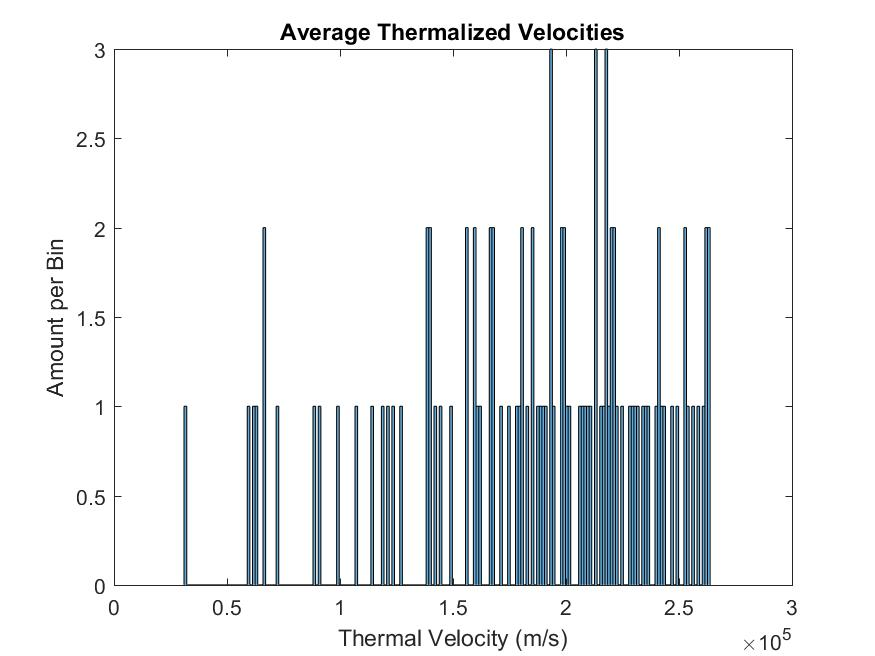
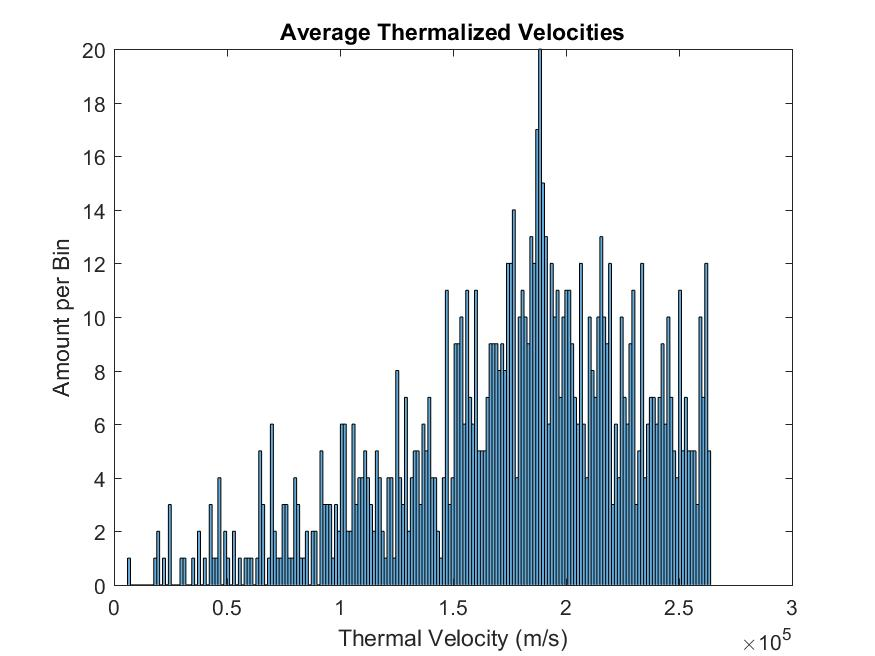
played with Q2, more commecnts

diff --git a/Assignment1/electronModelingQ2.m b/Assignment1/electronModelingQ2.m
@@ -8,8 +8,8 @@ global Vx Vy x y xp yp xi yi Vxi Vyi Collisions
 global numElect MarkerSize
 global Mass T SavePics
 
-numElect = 100;
-SavePics = 1;
+numElect = 1000;
+SavePics = 1;               %used at the end to save graphs on a 1, and not on a 0
 
 len = 200e-9;
 wid = 100e-9;
@@ -28,19 +28,19 @@ Prob = 1 - exp(-dt/.2e-12);         %probbility to interact with the backgorund
 %L = log(1 - Prob);                 %mean free path?
 %Lambda = L/diffL
 
-Limits = [0 len 0 wid];
+Limits = [0 len 0 wid];             %the drawing limits of the material simulated
 MarkerSize = 1;
 
 for i = 1:numElect                  %initialize the position of each electron
-    x(i) = rand()*len;           %inside the material. 
+    x(i) = rand()*len;              %inside the material. 
     y(i) = rand()*wid;
 end
 
 xi = x;
 yi = y;
 
-avgDistX(1:numElect) = x.*x(1:numElect);
-avgDistY(1:numElect) = y.*y(1:numElect);
+avgDistX(1:numElect) = x.*x(1:numElect);    %averaging the distance to each neibouring
+avgDistY(1:numElect) = y.*y(1:numElect);    %electron to calculate mean free path
 
 Collisions = zeros(1,numElect);
 
@@ -97,29 +97,31 @@ Temp = [300 avgTemp];
 Time = [0 t];
 plot(t, avgTemp, '-');
 
-numVisable = 10;                    %This sets the amount of visable electrons
-%colorVec = rand(numVisable,3);      %and adds different color values to each vector
+numVisable = 1;                     %This sets the amount of visable electrons
+%colorVec = rand(numVisable,3);     %and adds different color values to each vector
 colorVec = hsv(numVisable);
 tempSum = 0;                        %Reseting some values to zero to ensure
 avgTemp = 0;                        %proper calculations
 Vt = 0;
 prevTemp = 0;
 
-sumCollision = 0;
-sumCollTime = 0;
+sumCollision = 0;                   %initializing some helpers to calculate
+sumCollTime = 0;                    %the average collision time
 numColl = 0;
 
 while t < TStop                     %Loop to calcualte pos, and temp
     xp(1:numElect) = x(1:numElect);
     yp(1:numElect) = y(1:numElect);
     
-    x(1:numElect) = x(1:numElect) + (dt .* Vx(1:numElect));
-    y(1:numElect) = y(1:numElect) + (dt .* Vy(1:numElect));
+    x(1:numElect) = x(1:numElect) + (dt .* Vx(1:numElect)); %update position before the bounds check
+    y(1:numElect) = y(1:numElect) + (dt .* Vy(1:numElect)); %the bounds will rewrite this if an electron
+                                                            %is outside the
+                                                            %bounds
     
     for i=1:numElect                %Loop to calcuate the boundaries, left and 
                                     %right are periodic, the top and bottom
                                     %are reflections
-       %Boundary hit conditions
+       %Boundary conditions, not rethermalized
        if x(i) >= len
            xp(i) = 0;
            x(i) = dt * Vx(i);
@@ -147,8 +149,8 @@ while t < TStop                     %Loop to calcualte pos, and temp
        tempSum = tempSum + (Mass*Vt^2)/(2*C.kb);    %we might aswell do the temp
                                                     %cacluations
        
-       if i <= numVisable
-           figure(1);
+       if i <= numVisable                           %plot the difference in position,
+           figure(1);                               %but only a small number will show
            subplot(2,1,1);
            plot([xp(i) x(i)], [yp(i) y(i)],'color',colorVec(i,:));
        end
@@ -163,10 +165,10 @@ while t < TStop                     %Loop to calcualte pos, and temp
     
     %fprintf('time: %g (%5.2g %%)\n', t, t/TStop*100);
     
-    prevTemp = avgTemp;                 
+    prevTemp = avgTemp;                 %used to calculate the material temp
     avgTemp = 0;
     tempSum = 0;
-    pause(0.001);
+    pause(0.00001);
     t = t + dt;
 end
 
@@ -187,6 +189,7 @@ avgCollTime = sumCollTime / numColl;
 
 fprintf('Mean Free Path Calcuated: %g Avg. time between collisions: %g\n', avgTot, avgCollTime); 
 
+%save the final state of the graphs to add to the report
 if SavePics
     figure(1);
     saveas(gcf, 'ElectronsInSiliconQ2.jpg');
